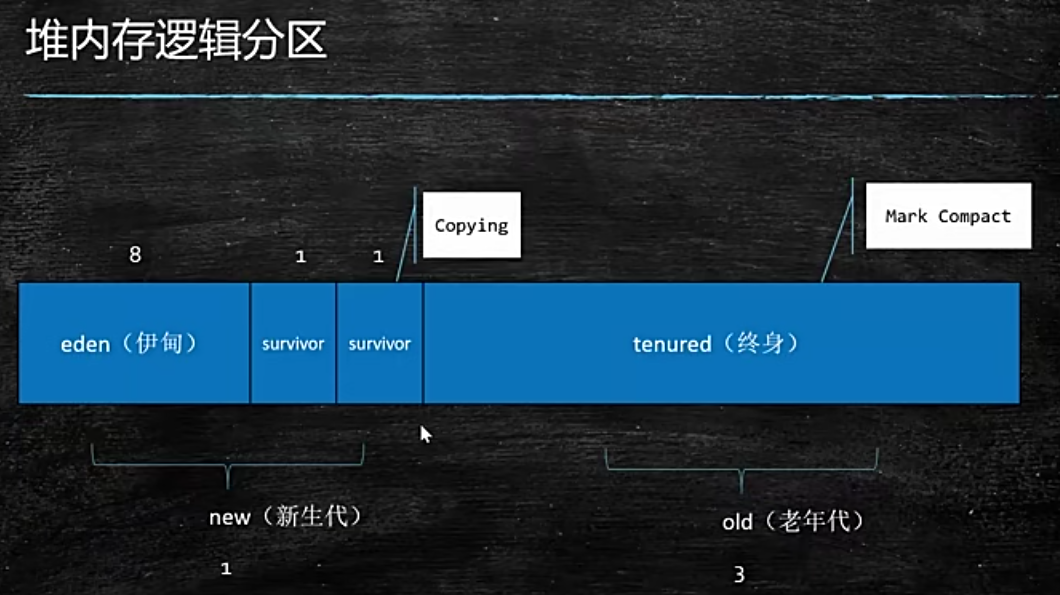
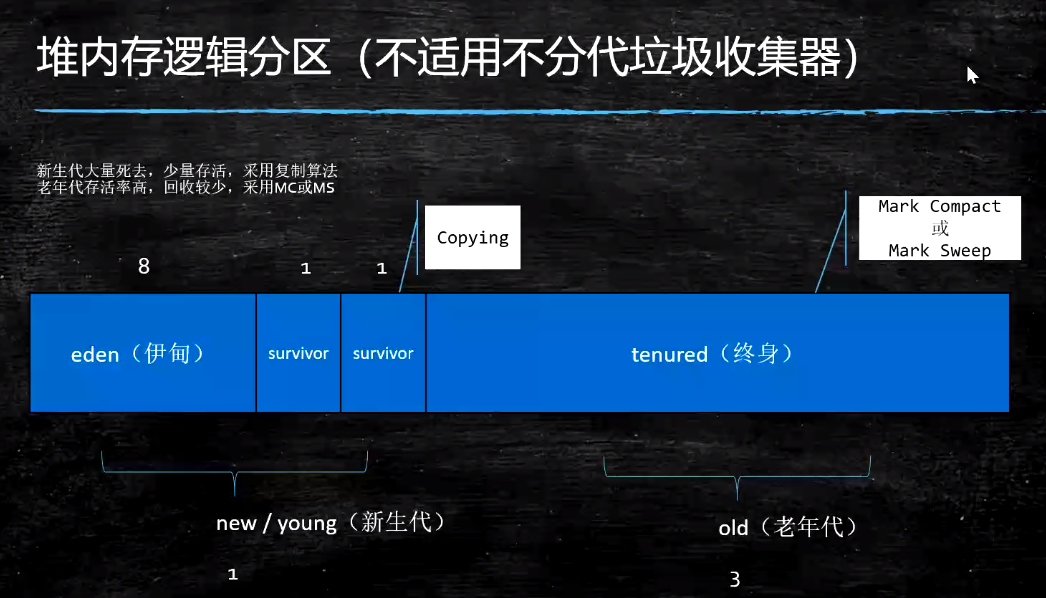
更新 JVM：GC和GC-Tuning

diff --git a/notes/JVM：GC和GC-Tuning.md b/notes/JVM：GC和GC-Tuning.md
@@ -17,7 +17,8 @@
 没有任何引用指向的一个对象或者多个对象（循环引用）
 
 #### 2.如何定位垃圾
-- 引用计数（不能解决循环引用的问题）
+- 引用计数（Reference Count）
+  > 不能解决循环引用的问题
 
   ![引用计数1](./pics/GC和GC-Tuning_1.png)
 
@@ -25,25 +26,53 @@
 
   ![引用计数2](./pics/GC和GC-Tuning_2.png)
 
-- 根可达算法
+- 根可达算法（Root Searching）
+  - 从根对象开始搜索
+  - 根对象：从程序运行起来后，马上需要的的对象；
+  - 根对象包含：
+    - JVM stack
+    - native method stack
+    - run-time constant pool
+    - static references in method area
+    - Clazz
 
   ![根可达算法](./pics/GC和GC-Tuning_3.png)
 
 #### 3.常见的垃圾回收算法
-- 标记清除 - 位置不连续 产生碎片
+- 标记清除（Mark-Sweep）
+  - 首先找到有用的对象，然后将没有用的标记出来，然后清除；
+  - 算法相对简单，存活对象比较多的情况下效率较高；
+  - 两遍扫描（第一次找有用的，第二次找没有用的），效率偏低；
+  - 位不连续，容易产生碎片；
+- 拷贝算法（Copying）----适合Eden区YGC
+  - 将内存一分为二，将存活对象拷贝到未使用区域，然后清除；
+  - 适用于存活对象较少的情况；
+  - 只扫描一次，效率提高；
+  - 没有碎片，但浪费空间；
+  - 移动复制对象，需要调整对象引用；
+- 标记压缩（Mark-Compact）----适合FGC
+  - 将所有整理、清理的过程都压缩到头上去（有用的对象往头上挪）
+  - 不会产生内存减半；
+  - 不会产生碎片，方便对象分配；
+  - 扫描两次，需要移动对象，效率偏低；
+
+- 标记清除
 
   ![标记清除](./pics/GC和GC-Tuning_4.png)
 
-- 拷贝算法 - 没有碎片，浪费空间
+- 拷贝算法
 
   ![拷贝算法](./pics/GC和GC-Tuning_5.png)
 
-- 标记压缩 - 没有碎片，效率偏低
+- 标记压缩
 
   ![标记压缩](./pics/GC和GC-Tuning_6.png)
 
 #### 4.JVM内存分代模型（用于分代垃圾回收算法）
 1. 部分垃圾回收器使用的模型
+    - 除Epslion、ZGC、Shenandoah之外的GC都是使用逻辑分代模型；
+    - G1是逻辑分代，物理不分代；
+    - 除此之外不仅逻辑分代，而且物理分代；
 2. 新生代 + 老年代 + 永久代（jdk1.7）/ 元数据区(jdk1.8) Metaspace
    1. 永久代/元数据：装Class对象
    2. 永久代必须指定大小限制；元数据可以设置，也可以不设置，无上限（受限于物理内存）
@@ -62,9 +91,39 @@
    1. 顽固分子
    2. 老年代满了，会触发FGC（Full GC）
 5. GC Tuning (Generation)
-   1. 尽量减少FGC（效率比较慢，会出现卡顿现象）
-   2. MinorGC = YGC
-   3. MajorGC = FGC
+   1. 尽量减少FGC（FGC会停止用户所有线程，效率比较慢，会出现卡顿现象）
+   2. MinorGC = YGC：年轻代空间耗尽时触发；
+   3. MajorGC = FGC：在老年代无法继续分配空间时触发，新生代老年代同时进行回收；
+
+
+> 对象分配详解
+- 栈上分配
+  - 线程私有小对象
+  - 无逃逸：就在某一段代码使用
+  - 支持标量替换：普通的变量来代替整个对象
+  - 无需调整（调优）
+- 线程本地分配TLAB（Thread Local Allocation Buffer）
+  - 占用eden，默认1%（每个线程独有，效率提高）
+  - 多线程的时候不用竞争eden就可以申请空间，提高效率
+  - 小对象
+  - 无需调整（调优）
+- 老年代
+  - 大对象
+- eden
+
+> 对象何时进入老年代
+- 超过 XX:MaxTenuringThreshold 指定次数（YGC）
+  - Parallel Scavenge 15
+  - CMS 6
+  - G1 15
+- 动态年龄
+  - Eden + s0 -> s1 ： 超过s1的50%，把年龄最大的对象放入老年代；
+
+> 对象的分配过程图
+
+  ![对象分配过程图](./pics/对象分配过程图.png)
+
+
 
 #### 5.常见的垃圾回收器
 

diff --git a/notes/JVM（六）：GarbageCollectorGCTuning.md b/notes/JVM（六）：GarbageCollectorGCTuning.md
@@ -1,0 +1,10 @@
+## JVM（六）：Garbage Collector GC Tuning
+> 目标：熟悉GC常用算法，熟悉常见垃圾收集器，具有实际JVM调优实战经验
+
+- what is Garbage
+- how to find it
+- GC algorithms
+- available collectors
+- Tuning
+
+> JVM：GC和GC-Tuning.md
